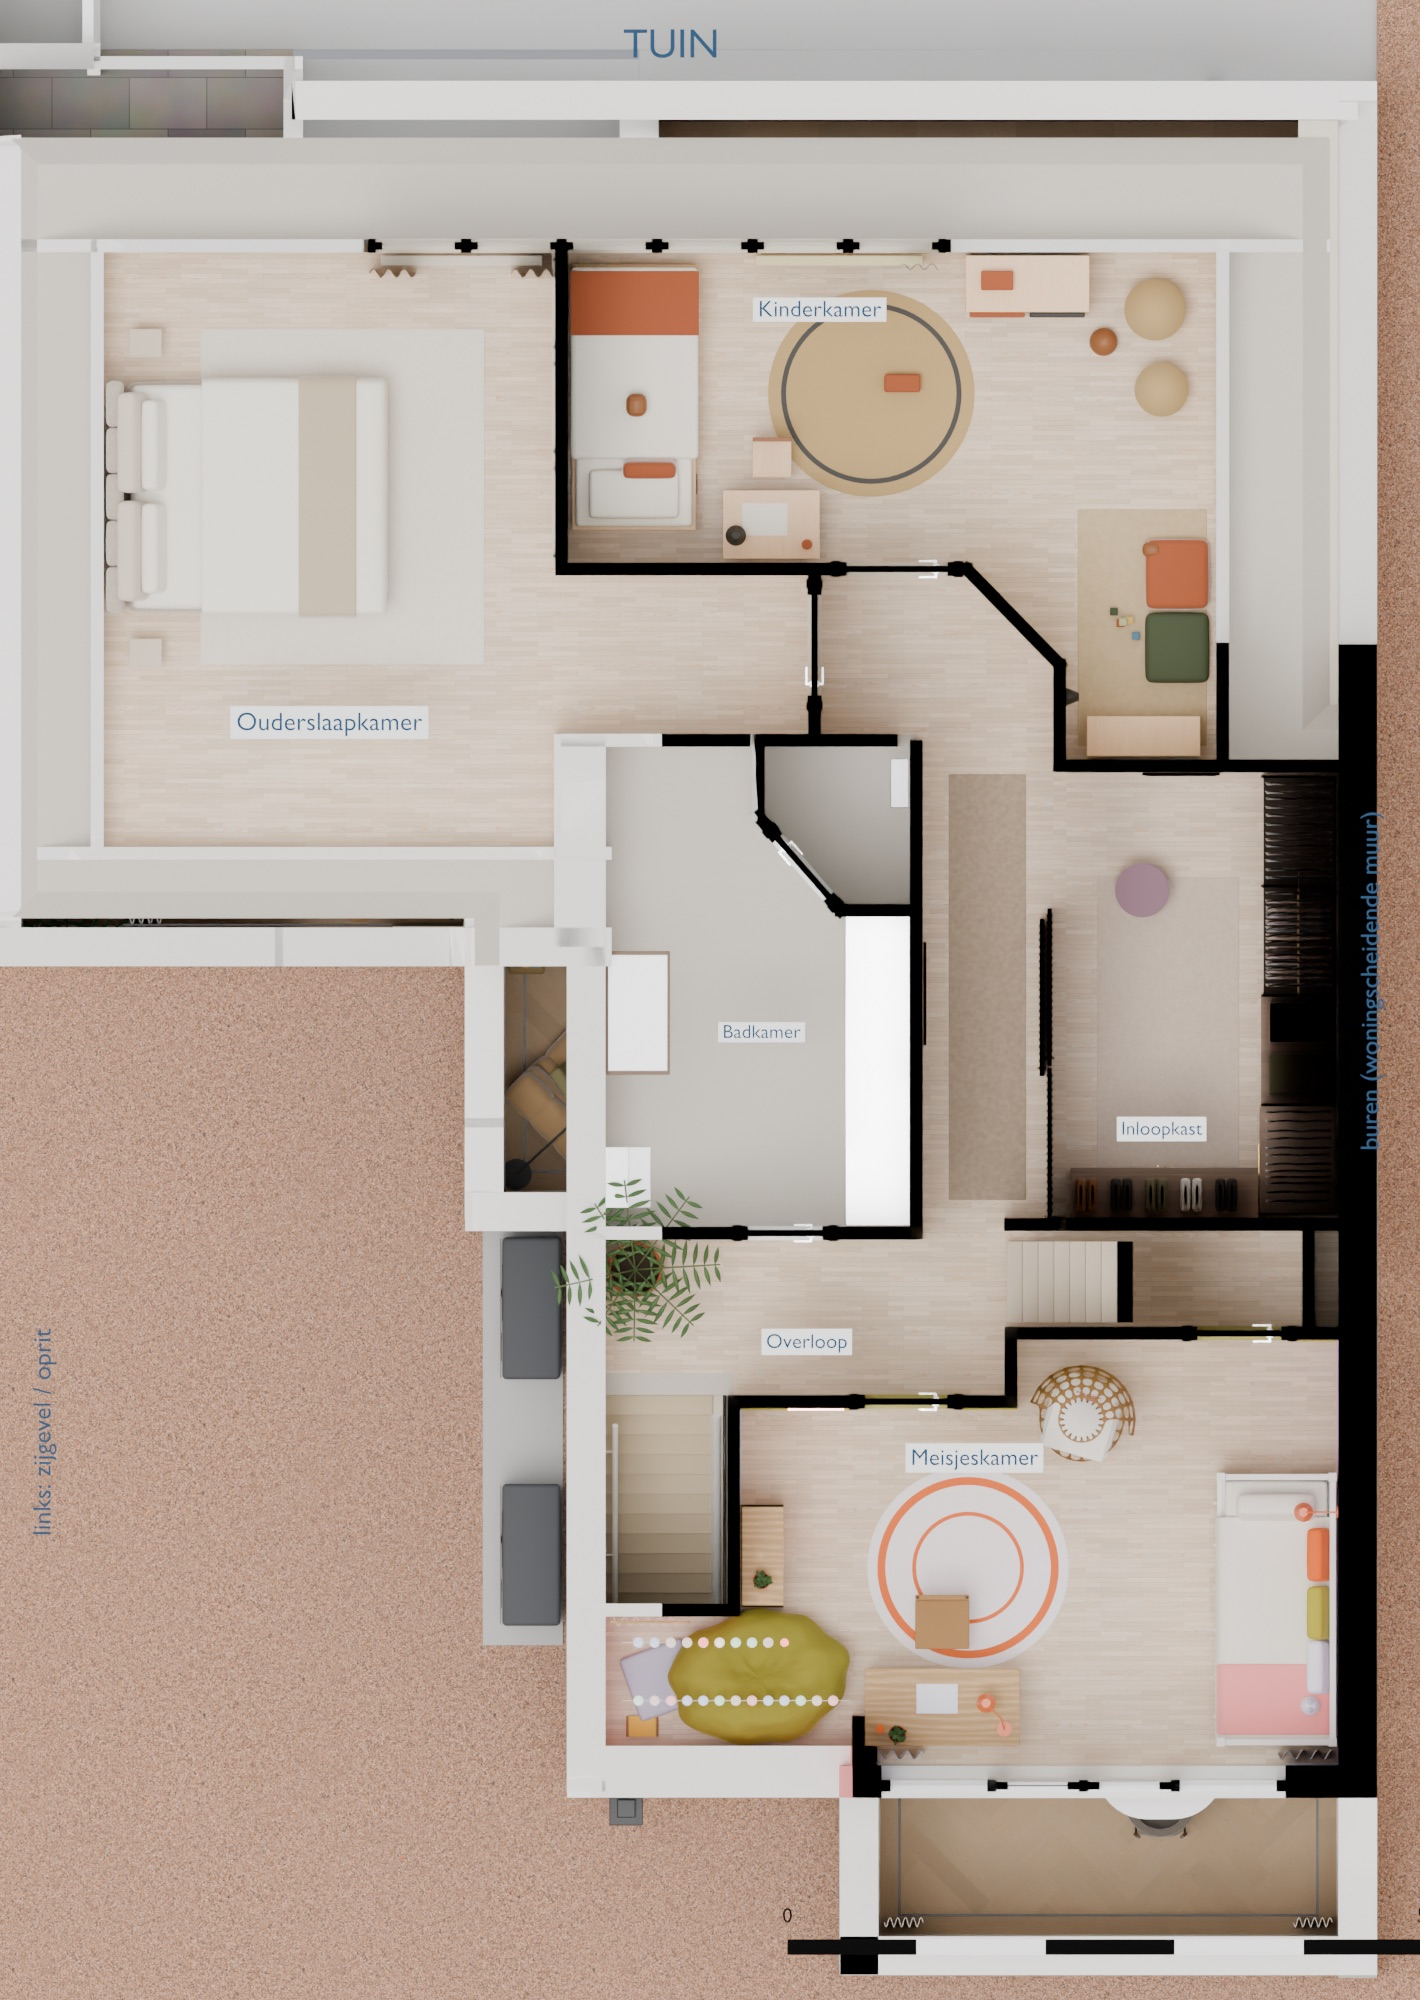
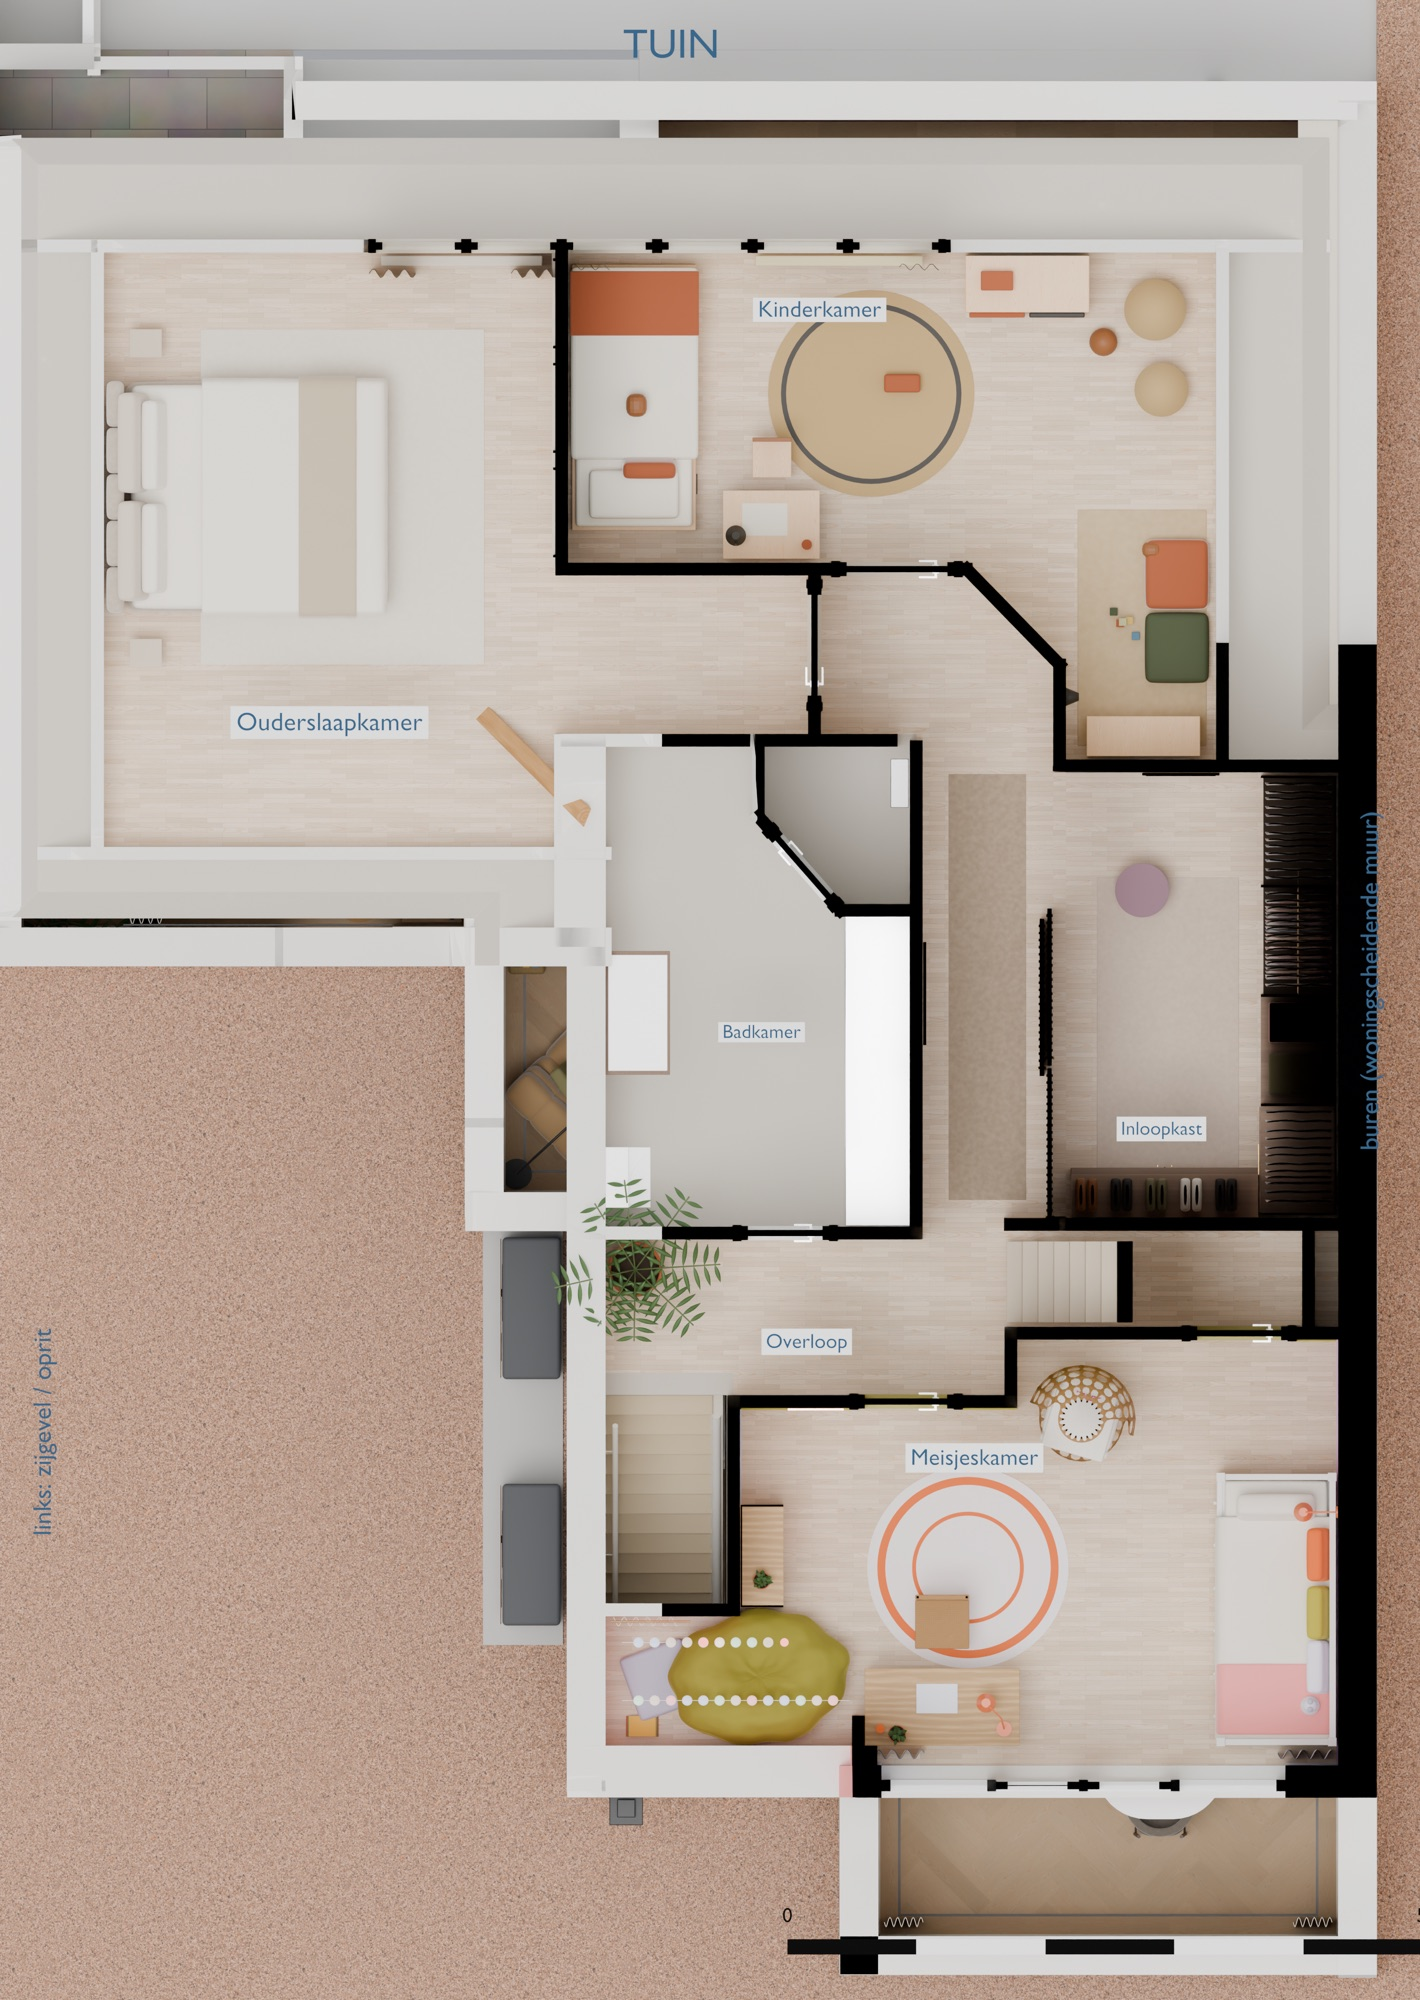
Plattegronden zonder zwarte vlekken en in het groot te openen

Changed region(s): [[0.3408, 0.341, 0.4028, 0.403], [0.4028, 0.403, 0.4338, 0.434]]

diff --git a/uitleg.html b/uitleg.html
@@ -63,6 +63,9 @@
   /* plattegrond */
   .plangrid{display:grid;grid-template-columns:minmax(260px,420px) 1fr;gap:40px;align-items:start}
   .plangrid img{border-radius:12px;border:1px solid var(--rule)}
+  .plangroot{display:block;color:inherit;text-decoration:none}
+  .plangroot img{display:block;width:100%;cursor:zoom-in}
+  .plangroot span{display:block;margin-top:8px;font-size:.9em;text-decoration:underline}
   .plangrid ol{padding-left:20px}
   .plangrid li{margin-bottom:12px}
   .plangrid li b{font-weight:600}
@@ -252,7 +255,7 @@
   <h2>Plattegrond</h2>
   <p class="intro">De begane grond als één route van de tuin naar de straat. In de 360°-rondkijker staan dezelfde plekken als stippen op de kaart.</p>
   <div class="plangrid">
-    <img src="img/plan.jpg" alt="Plattegrond begane grond met woonkamer, eetzone, speelkamer, keuken, hal, slaapkamer en badkamer" loading="lazy">
+    <a class="plangroot" href="img/plan-groot.jpg" target="_blank" rel="noopener" title="Open de plattegrond begane grond in het groot"><img src="img/plan.jpg" alt="Plattegrond begane grond met woonkamer, eetzone, speelkamer, keuken, hal, slaapkamer en badkamer" loading="lazy"><span>Bekijk in het groot ↗</span></a>
     <ol>
       <li><b>Woonkamer (tuinzijde, 20 cm verdiept).</b> Bank dwars in de kamer, 30 cm van de Terra Pink-wand; Nelson Bench erachter. Vleugel diagonaal in de hoek. Loopruimte langs de vleugel ±84 cm, tussen boog en Nelson Bench ±1,26 m.</li>
       <li><b>Bogen.</b> Drie bogen in Monumental Moss vormen de overgang naar de eetzone; de middelste is de looproute.</li>
@@ -265,7 +268,7 @@
     </ol>
   </div>
   <div class="plangrid" style="margin-top:28px">
-    <img src="img/plan-ev.jpg" alt="Plattegrond 1e verdieping met ouderslaapkamer, kinderkamer, overloop, inloopkast en meisjeskamer" loading="lazy">
+    <a class="plangroot" href="img/plan-ev-groot.jpg" target="_blank" rel="noopener" title="Open de plattegrond 1e verdieping in het groot"><img src="img/plan-ev.jpg" alt="Plattegrond 1e verdieping met ouderslaapkamer, kinderkamer, overloop, inloopkast en meisjeskamer" loading="lazy"><span>Bekijk in het groot ↗</span></a>
     <ol>
       <li><b>Ouderslaapkamer.</b> Links onder de dakkapel, bed tegen de knieschot; 19,0 m² vloer, waarvan ±12 m² hoger dan 1,5 m.</li>
       <li><b>Kinderkamer.</b> Rechts onder de dakkapel, 14,1 m² (10 m² op stahoogte): licht met een Hunter-groene bedwand; bed tegen de tussenwand, speelhoek in de nis onder het dakraam, bureautje aan de gangwand, vrij midden.</li>

diff --git a/index.html b/index.html
@@ -49,6 +49,7 @@
   aside.kaart button.toggle{font:600 12px var(--sans);color:var(--paper);background:rgba(244,238,228,.1);border:0;border-radius:6px;padding:3px 8px;cursor:pointer}
   .plan{position:relative;width:100%}
   .plan img{display:block;width:100%;border-radius:8px}
+  .kop a.groot{margin-left:auto;margin-right:8px;text-decoration:none}
   .stip{position:absolute;width:16px;height:16px;margin:-8px 0 0 -8px;border-radius:50%;background:var(--paper);border:3px solid var(--merlot);cursor:pointer;padding:0}
   .stip.actief{background:var(--merlot);border-color:var(--paper);z-index:2}
   .kegel{position:absolute;width:70px;height:70px;margin:-35px 0 0 -35px;pointer-events:none;z-index:1}
@@ -101,7 +102,7 @@
   <div class="versie moment" id="moment" role="group" aria-label="Moment van de dag"><button data-m="dag" class="actief">Dag</button><button data-m="avond">Avond</button></div>
   <a class="uitleg" href="uitleg.html">Sfeer &amp; kleur</a></header>
 <aside class="kaart" id="kaart">
-  <div class="kop"><span>Plattegrond</span><button class="toggle" id="toggle" aria-expanded="true">verberg</button></div>
+  <div class="kop"><span>Plattegrond</span><a class="toggle groot" id="planGroot" href="img/plan-groot.jpg" target="_blank" rel="noopener">groot</a><button class="toggle" id="toggle" aria-expanded="true">verberg</button></div>
   <div class="lagen" id="lagen" role="group" aria-label="Verdieping"><button data-l="0" class="actief">Begane grond</button><button data-l="1">1e verdieping</button></div>
   <div class="plan" id="plan"><img id="planimg" src="img/plan.jpg" alt="Plattegrond begane grond met de standplaatsen"></div>
 </aside>
@@ -251,7 +252,7 @@ function actief(sid) {
   }
   wissel.textContent = lg ? '↓ Begane grond' : '↑ 1e verdieping';
   document.querySelectorAll('#lagen button').forEach(b => b.classList.toggle('actief', +b.dataset.l === lg));
-  if (!planimg.src.endsWith(LAGEN[lg].img)) { planimg.src = LAGEN[lg].img; planimg.alt = 'Plattegrond ' + LAGEN[lg].naam.toLowerCase() + ' met de standplaatsen'; }
+  if (!planimg.src.endsWith(LAGEN[lg].img)) { planimg.src = LAGEN[lg].img; planimg.alt = 'Plattegrond ' + LAGEN[lg].naam.toLowerCase() + ' met de standplaatsen'; document.getElementById('planGroot').href = LAGEN[lg].img.replace('.jpg', '-groot.jpg'); }
   const [l, t] = naarPx(SPOTS[id].x, SPOTS[id].y); kegel.style.left = l + '%'; kegel.style.top = t + '%';
 }
 viewer.on('scenechange', actief); actief(sceneId('woonkamer'));
